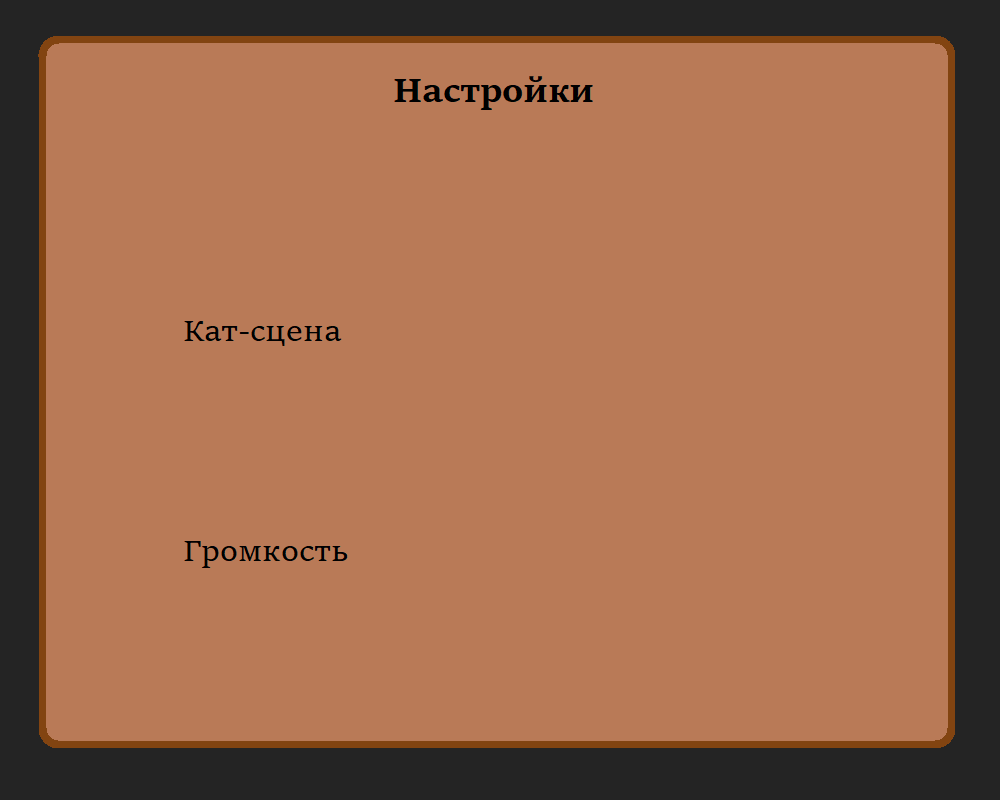
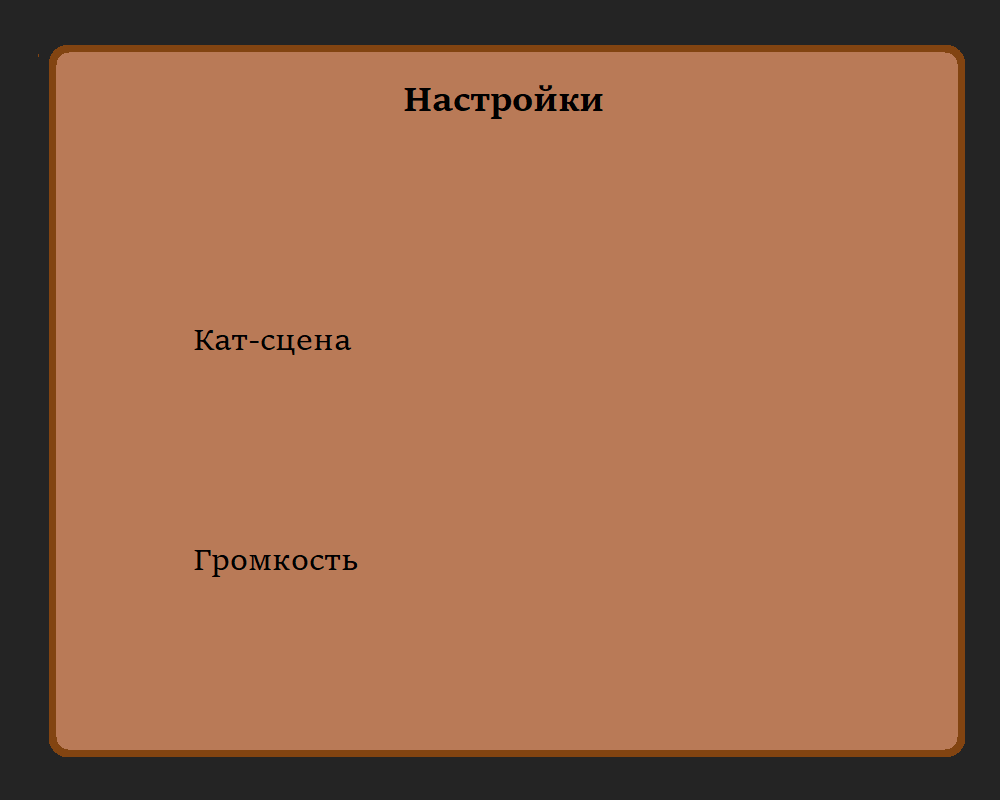
настройки громкости и кат-сцены

diff --git a/StartMenu.py b/StartMenu.py
@@ -4,6 +4,7 @@ from befor_init import size, screen
 from Rating import RatingWindow
 from Instruction import InstructionWindow
 from ButtonClose import ButtonClose
+from Settings import SettingsWindow, buttons_sprites_settings
 
 # 0 - в ожидании ответа пользователя
 # 1 - запуск игры
@@ -34,7 +35,8 @@ class ButtonStart(pygame.sprite.Sprite):
             self.image = ButtonStart.images[1]
             if args and args[0].type == pygame.MOUSEBUTTONDOWN and self.rect.collidepoint(args[0].pos):
                 global START_STATE_MACHINE
-                START_STATE_MACHINE = 1
+                if START_STATE_MACHINE == 0:
+                    START_STATE_MACHINE = 1
         else:
             self.image = ButtonStart.images[0]
 
@@ -55,7 +57,8 @@ class ButtonExit(pygame.sprite.Sprite):
             self.image = ButtonExit.images[1]
             if args and args[0].type == pygame.MOUSEBUTTONDOWN and self.rect.collidepoint(args[0].pos):
                 global START_STATE_MACHINE
-                START_STATE_MACHINE = 5
+                if START_STATE_MACHINE == 0:
+                    START_STATE_MACHINE = 5
         else:
             self.image = ButtonExit.images[0]
 
@@ -76,7 +79,8 @@ class ButtonInstruction(pygame.sprite.Sprite):
             self.image = ButtonInstruction.images[1]
             if args and args[0].type == pygame.MOUSEBUTTONDOWN and self.rect.collidepoint(args[0].pos):
                 global START_STATE_MACHINE
-                START_STATE_MACHINE = 2
+                if START_STATE_MACHINE == 0:
+                    START_STATE_MACHINE = 2
         else:
             self.image = ButtonInstruction.images[0]
 
@@ -97,7 +101,8 @@ class ButtonRating(pygame.sprite.Sprite):
             self.image = ButtonRating.images[1]
             if args and args[0].type == pygame.MOUSEBUTTONDOWN and self.rect.collidepoint(args[0].pos):
                 global START_STATE_MACHINE
-                START_STATE_MACHINE = 3
+                if START_STATE_MACHINE == 0:
+                    START_STATE_MACHINE = 3
         else:
             self.image = ButtonRating.images[0]
 
@@ -118,7 +123,8 @@ class ButtonSettings(pygame.sprite.Sprite):
             self.image = ButtonSettings.images[1]
             if args and args[0].type == pygame.MOUSEBUTTONDOWN and self.rect.collidepoint(args[0].pos):
                 global START_STATE_MACHINE
-                START_STATE_MACHINE = 4
+                if START_STATE_MACHINE == 0:
+                    START_STATE_MACHINE = 4
         else:
             self.image = ButtonSettings.images[0]
 
@@ -161,6 +167,9 @@ def print_menu(volume, cut_scene):
         elif START_STATE_MACHINE == 2 and print_table is None:
             print_table = InstructionWindow(windows_sprites)
             close = ButtonClose(920, 60, close_button_sprites)
+        elif START_STATE_MACHINE == 4 and print_table is None:
+            print_table = SettingsWindow(volume, cut_scene, windows_sprites)
+            close = ButtonClose(920, 60, close_button_sprites)
         events = pygame.event.get()
         for event in events:
             if event.type == pygame.QUIT:
@@ -175,12 +184,18 @@ def print_menu(volume, cut_scene):
         if close and close.state == 1:
             close.kill()
             close = None
+            if START_STATE_MACHINE == 4:
+                volume = print_table.VOLUME
+                cut_scene = print_table.CUT_SCENE
+                for button in buttons_sprites_settings:
+                    button.kill()
             print_table.kill()
             print_table = None
             START_STATE_MACHINE = 0
 
         buttons_sprites.update(*events)
         menu_sprite.draw(screen)
+        windows_sprites.update(*events)
         windows_sprites.draw(screen)
         close_button_sprites.update(*events)
         close_button_sprites.draw(screen)

diff --git a/Settings.py b/Settings.py
@@ -1,0 +1,77 @@
+import pygame
+from load_image import load_image
+
+
+buttons_sprites_settings = pygame.sprite.Group()
+
+
+class SettingsWindow(pygame.sprite.Sprite):
+    image = load_image('settings.png', -1)
+    VOLUME = 100
+    CUT_SCENE = True
+
+    def __init__(self, volume, cut_scene, *group):
+        super(SettingsWindow, self).__init__(*group)
+        SettingsWindow.VOLUME = volume
+        SettingsWindow.CUT_SCENE = cut_scene
+        self.image = SettingsWindow.image.copy()
+        self.rect = self.image.get_rect()
+        Buttons('up', 500, 525, buttons_sprites_settings)
+        Buttons('down', 500, 575, buttons_sprites_settings)
+        Buttons('cut-scene', 500, 325, buttons_sprites_settings)
+        self.font = pygame.font.SysFont('sans serif', 50)
+
+    def update(self, *args) -> None:
+        self.image = SettingsWindow.image.copy()
+        buttons_sprites_settings.update(*args)
+        buttons_sprites_settings.draw(self.image)
+        text = self.font.render(f'{SettingsWindow.VOLUME}%', False, (0, 0, 0))
+        self.image.blit(text, (600, 550))
+
+
+class Buttons(pygame.sprite.Sprite):
+    images = [load_image('button_up.png', -1),
+              load_image('button_up_dark.png', -1),
+              load_image('button_down.png', -1),
+              load_image('button_down_dark.png', -1),
+              load_image('button_cut_scene_true.png', -1),
+              load_image('button_cut_scene_false.png', -1)]
+
+    def __init__(self, btn_type, x, y, *group):
+        super(Buttons, self).__init__(*group)
+        if btn_type == 'up':
+            self.image = Buttons.images[0]
+        elif btn_type == 'down':
+            self.image = Buttons.images[2]
+        else:
+            self.image = Buttons.images[4]
+        self.rect = self.image.get_rect()
+        self.rect.x = x
+        self.rect.y = y
+
+    def update(self, *args) -> None:
+        if self.rect.collidepoint(pygame.mouse.get_pos()):
+            if self.image == Buttons.images[0]:
+                self.image = Buttons.images[1]
+            if self.image == Buttons.images[2]:
+                self.image = Buttons.images[3]
+            if args and args[0].type == pygame.MOUSEBUTTONDOWN and self.rect.collidepoint(args[0].pos):
+                if self.image == Buttons.images[1]:
+                    if SettingsWindow.VOLUME + 10 <= 100:
+                        SettingsWindow.VOLUME += 10
+                        pygame.mixer.music.set_volume(SettingsWindow.VOLUME / 100)
+                elif self.image == Buttons.images[3]:
+                    if SettingsWindow.VOLUME - 10 >= 0:
+                        SettingsWindow.VOLUME -= 10
+                        pygame.mixer.music.set_volume(SettingsWindow.VOLUME / 100)
+                elif self.image == Buttons.images[4]:
+                    SettingsWindow.CUT_SCENE = False
+                    self.image = Buttons.images[5]
+                elif self.image == Buttons.images[5]:
+                    SettingsWindow.CUT_SCENE = True
+                    self.image = Buttons.images[4]
+        else:
+            if self.image == Buttons.images[1]:
+                self.image = Buttons.images[0]
+            elif self.image == Buttons.images[3]:
+                self.image = Buttons.images[2]

diff --git a/main.py b/main.py
@@ -153,7 +153,6 @@ if __name__ == '__main__':
             if sum(virus_amount_of_enemies) == 0:
                 GLOBAL_STATE_MACHINE = 3
             keys = pygame.key.get_pressed()
-            #hits = pygame.sprite.groupcollide(viruses_sprites, bullets_sprites, False, True)
             all_sprites.update(keys)
             screen.blit(fon_map, (0, 0))
             all_sprites.draw(screen)
